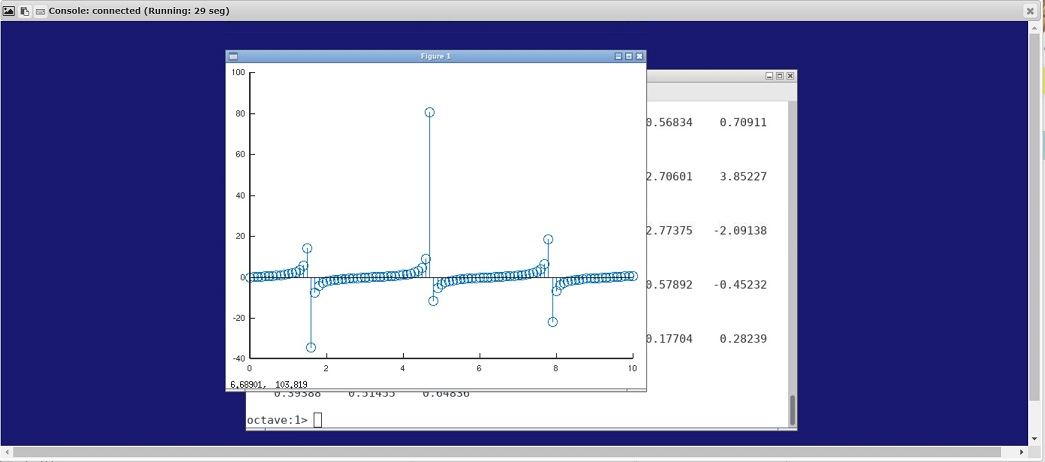
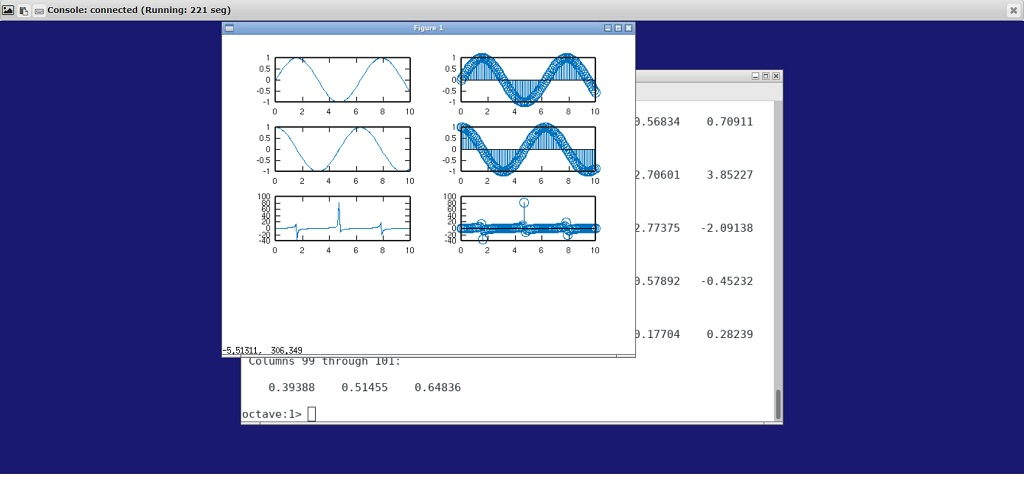
Practical Added

Changed region(s): [[0.0, 0.0, 1.0, 1.0], [0.5, 0.6667, 0.5312, 0.697], [0.2188, 0.6667, 0.25, 0.697]]

diff --git a/7th sem/DSP-Practical/DSP Practical 3b.html b/7th sem/DSP-Practical/DSP Practical 3b.html
@@ -40,34 +40,36 @@
     y=0
     end
     end
+    subplot(4,2,1)
     plot(n,y)
-
-    for n=-5:5
-    if n>=0
-    y=1
-    else
-    y=0
-    end
-    end
+    subplot(4,2,2)
     stem(n,y)
-
-    for n=-5:5
-    if n==0
-    y=1
+    
+    m=0:5
+    e=exp(m)
+    subplot(4,2,3)
+    plot(m,e)
+    subplot(4,2,4)
+    stem(m,e)
+    
+    p=0:5
+    r=p
+    subplot(4,2,5)
+    plot(p,r)
+    subplot(4,2,6)
+    stem(p,r)
+    
+    for q=-5:5
+    if q==0
+    s=1
     else
-    y=0
+    s=0
     end
     end
-    plot(y,n)
-
-    for n=-5:5
-    if n==0
-    y=1
-    else
-    y=0
-    end
-    end
-    stem(y,n)
+    subplot(4,2,7)
+    plot(q,s)
+    subplot(4,2,8)
+    stem(q,s)
 </span></code></pre>
             </div>
             </div>

diff --git a/7th sem/DSP-Practical/DSP Practical 3a.html b/7th sem/DSP-Practical/DSP Practical 3a.html
@@ -35,27 +35,24 @@
 <code class="language"><span>
     t=0:0.1:10
     s=sin(t)
+    subplot(4,2,1)
     plot(t,s)
-
-    t=0:0.1:10
-    s=cos(t)
-    plot(t,s)
-
-    t=0:0.1:10
-    s=tan(t)
-    plot(t,s)
-
-    t=0:0.1:10
-    s=sin(t)
+    subplot(4,2,2)
     stem(t,s)
-
-    t=0:0.1:10
-    s=cos(t)
-    stem(t,s)
-
-    t=0:0.1:10
-    s=tan(t)
-    stem(t,s)
+    
+    x=0:0.1:10
+    c=cos(x)
+    subplot(4,2,3)
+    plot(x,c)
+    subplot(4,2,4)
+    stem(x,c)
+    
+    y=0:0.1:10
+    a=tan(y)
+    subplot(4,2,5)
+    plot(y,a)
+    subplot(4,2,6)
+    stem(y,a)
 </span></code></pre>
             </div>
             </div>
